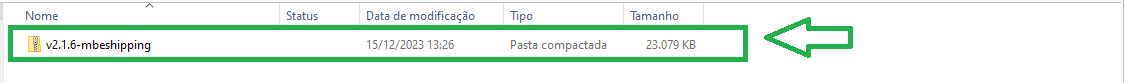
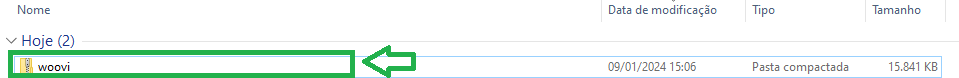
fix (docs)! - deleted market-place section plus fixed plugin .zip picture (#775)

diff --git a/docs/ecommerce/prestashop/getting-the-plugin.md b/docs/ecommerce/prestashop/getting-the-plugin.md
@@ -7,29 +7,20 @@ tags:
 ---
 # Integrando a OpenPix na Prestashop
 
-Este documento detalha os passos necessários para conectar sua plataforma de e-commernce, baseado na Prestashop, na OpenPix. 
+Este documento detalha os passos necessários para conectar sua plataforma de e-commernce Prestashop na OpenPix. 
 
-## 1. Instale a OpenPix na sua loja Prestashop
+## 1. Faça o download do plugin
 
-Acesse o link abaixo:
+Plugin disponível no link abaixo:
 
-[OpenPix para Prestashop](https://addons.prestashop.com/link_da_openpix_aqui)
+[Woovi (Prestashop)](https://github.com/jefersoneiji/openpix-prestashop/releases/download/v0.0.1/woovi.zip)
 
-![Go to Pretashop addons' market](./__assets__/prestashop-step-0.png "step 1")
 
-## 2. Faça o download do plugin
-
-![Faça o download do plugin](./__assets__/prestashop-step-3.png "step 2")
-
-## 3. Siga todos os passos para download até o final
-
-![Siga todos os passos para download até o final](./__assets__/prestashop-step-4.png "step 3")
-
-## 4. Encontre o arquivo .zip salvo no computador
+## 2. Encontre o arquivo .zip salvo no computador
 
 ![Encontre o arquivo .zip salvo no computador](./__assets__/prestashop-step-5.png "step 4")
 
-## 5. Entre como administrador no Back-Office do seu e-commerce
+## 3. Entre como administrador no Back-Office do seu e-commerce
 
 Em seguida, selecione o menu **Módulos > Gerenciador de módulos > Enviar um módulo**.
 
@@ -37,11 +28,11 @@ Siga as instruções da tela que aparecerá.
 
 ![As a loggged user open your prestashop back-office](./__assets__/prestashop-step-6.png "step 5")
 
-## 6. Depois da instalação completa, clique em "Configurar"
+## 4. Depois da instalação completa, clique em "Configurar"
 
 ![As a loggged user open your prestashop back-office](./__assets__/prestashop-step-7.png "step 6")
 
-## 7. Para os próximos passos, seguem as documentações abaixo
+## 5. Para os próximos passos, seguem as documentações abaixo
 
 - (etapa obrigatória) Como configurar seu [AppID](./plugin-set-up.md)
 - Como configurar seu [Webhook](./webhook-set-up.md)
